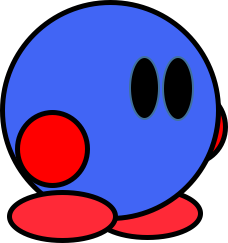
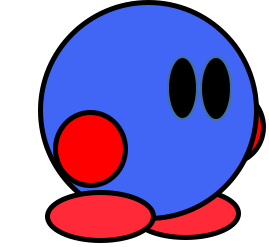
added punching and jump

diff --git a/src/Players/Minion.java b/src/Players/Minion.java
@@ -22,6 +22,7 @@ public abstract class Minion {
 	protected Image baseimg;
 	int y = 0;
 	protected int WIDTH = 60;
+	protected int BASEWIDTH = 60;
 	protected int HEIGHT = 60;
 	private int x = 0;
 	private float xx =0;
@@ -50,10 +51,22 @@ public abstract class Minion {
 	private String PlayerPath= "Resources/Players/";
 	protected String ColorPath= "";
 	private ArrayList<Image> Walking = new ArrayList<Image>();
+	private ArrayList<Image> Jumping = new ArrayList<Image>();
+	private ArrayList<Image> Punching = new ArrayList<Image>();
 	private int numWalkingPhotos = 5;
+	private int numJumpingPhotos = 6;
+	private int numPunchingPhotos = 7;
 	private int walkingPhotoItt	=0;
-	private float  walkingPhotoIttFloat = 0;	
+	private float  walkingPhotoIttFloat = 0;
+	private int JumpingPhotoItt	=0;
+	private float  JumpingPhotoIttFloat = 0;
+	private int PunchingPhotoItt	=0;
+	private float  PunchingPhotoIttFloat = 0;
 	private boolean onGround = false;
+	private boolean jumped = false;
+	private boolean punch = false;
+	private boolean punchfwd = true;
+	private int addedWIDTH=0;
 	
 	public Minion(Game game, int x,int y,int num) {
 		this.game = game;
@@ -72,6 +85,17 @@ public abstract class Minion {
         	ii = new ImageIcon(PlayerPath+"Blue"+"/Walk/CircManWalk"+(i+1)+".png");
         	temp = ii.getImage();
         	Walking.add(temp);
+        }
+        
+        for(int i = 0; i<numJumpingPhotos; i++){
+        	ii = new ImageIcon(PlayerPath+"Blue"+"/Jump/CircManJump"+(i+1)+".png");
+        	temp = ii.getImage();
+        	Jumping.add(temp);
+        }
+        for(int i = 0; i<numPunchingPhotos; i++){
+        	ii = new ImageIcon(PlayerPath+"Blue"+"/Punch/CircManPunch"+(i+1)+".png");
+        	temp = ii.getImage();
+        	Punching.add(temp);
         }
 		
 	}
@@ -102,8 +126,8 @@ public abstract class Minion {
 		y=(int)yy;
 		if(xa>0)dir=true;
 		else if(xa<0)dir=false;
-		
-		boolean gotobj = GetObject(keys);		
+		boolean gotobj =false;
+		if(!punch)gotobj = GetObject(keys);		
 		MoveObject();
 		TossObject(keys);
 		if(gotobj)shootRelease=true;
@@ -111,7 +135,7 @@ public abstract class Minion {
 			if(!keys.contains(shootKey)){
 				shootRelease=false;
 			}
-		}else Shoot(keys);
+		}else Action(keys);
 		
 		GotShot();
 		
@@ -139,7 +163,7 @@ public abstract class Minion {
 		}
 		else{
 			g.drawImage(img,
-					x+WIDTH, y,
+					x+WIDTH-addedWIDTH, y,
 					-WIDTH, HEIGHT,
 					null);
 			
@@ -147,7 +171,8 @@ public abstract class Minion {
 	}
 
 	public Rectangle getBounds() {
-		return new Rectangle(x, (int)yy, WIDTH, HEIGHT);
+		if(dir)return new Rectangle(x, (int)yy, WIDTH, HEIGHT);
+		return new Rectangle(x-addedWIDTH, (int)yy, WIDTH, HEIGHT);
 	}
 	public Rectangle getBoundsSmall() {
 		int offset = 3;
@@ -204,6 +229,7 @@ public abstract class Minion {
 			
 			
 		}
+		
 		return false;
 	}
 	private void GotShot(){
@@ -220,15 +246,16 @@ public abstract class Minion {
 			game.bullets.remove(x);
 		}
 	}
-	private void Shoot(Set<Integer> keys){
+	private void Shoot(){
 		int time=40;
-		if(this.currentObject!=null){
-			if(keys.contains(shootKey)&& shootcount >time) {
-				currentObject.shoot();
-				this.shootcount = 0;
-			}
-			else if(shootcount< time+1)shootcount++;
+		if(shootcount >time) {
+			this.shootcount = 0;
 		}
+		else if(shootcount< time+1){
+			if(shootcount == 0)currentObject.shoot();
+			shootcount++;
+		}
+		
 	}
 	public boolean GotKilled(){
 		if(damage>damageLimit)return true;
@@ -249,6 +276,7 @@ public abstract class Minion {
 					ya=0;
 					yy = bounds.y-HEIGHT;
 					onGround= true;
+					jumped = false;
 				}
 				
 			}
@@ -261,10 +289,62 @@ public abstract class Minion {
 				ya = ya-jump;
 				upTracker=true;
 				onGround=false;
+				jumped = true;
 			}
 		}
 		else{
 			upTracker = false;
+		}
+		JumpAnimation();
+	}
+	public void JumpAnimation(){
+		float aniSpeed = (float).3;
+		if(jumped){
+				JumpingPhotoIttFloat = JumpingPhotoIttFloat+aniSpeed;
+				if(JumpingPhotoIttFloat> numJumpingPhotos-1){
+					JumpingPhotoIttFloat = 0;
+					jumped = false;
+				}
+				else{
+					JumpingPhotoItt = (int)JumpingPhotoIttFloat;
+					img = Jumping.get(JumpingPhotoItt);
+				}
+		}
+		
+	}
+	public void Action(Set<Integer> keys){
+		int time=40;
+		if(this.currentObject!=null){
+			if(keys.contains(shootKey)){
+				this.Shoot();
+			}
+			else shootcount = 0;
+		}
+		else{
+			if(keys.contains(shootKey)){
+				punch=true;
+			}
+			if(punch){
+				this.Punch();
+			}
+		}
+		
+		
+	}
+	public void Punch(){
+		float aniSpeed = (float).1;
+		if(punchfwd) PunchingPhotoIttFloat = PunchingPhotoIttFloat+aniSpeed;
+		else PunchingPhotoIttFloat = PunchingPhotoIttFloat-aniSpeed;
+		PunchingPhotoItt = (int)PunchingPhotoIttFloat;
+		if(PunchingPhotoItt== numPunchingPhotos-1)punchfwd=false;
+		if(PunchingPhotoItt>4){
+			addedWIDTH = (PunchingPhotoItt-4)*12;
+		}else addedWIDTH = 0;
+		WIDTH = BASEWIDTH+ addedWIDTH;
+		img = Punching.get(PunchingPhotoItt);
+		if(PunchingPhotoItt==0 && !punchfwd){
+			punchfwd=true;
+			punch = false;
 		}
 	}
 }

diff --git a/src/Bullets/Fireball.java b/src/Bullets/Fireball.java
@@ -7,7 +7,7 @@ import GameEngine.Game;
 import Ground.Ground;
 
 public class Fireball extends Bullet {
-	float ya = 0;
+	float ya = (float)-.5;
 	float yy = 0;
 	public Fireball(Game game, int xx, int yy, boolean dirr) {
 		super(game, xx, yy, dirr);
